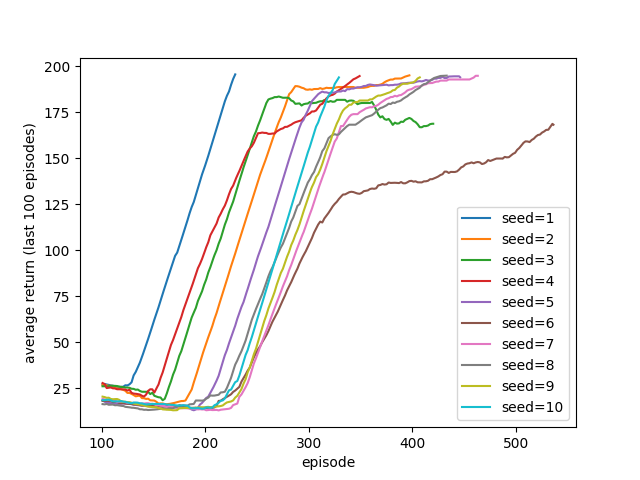
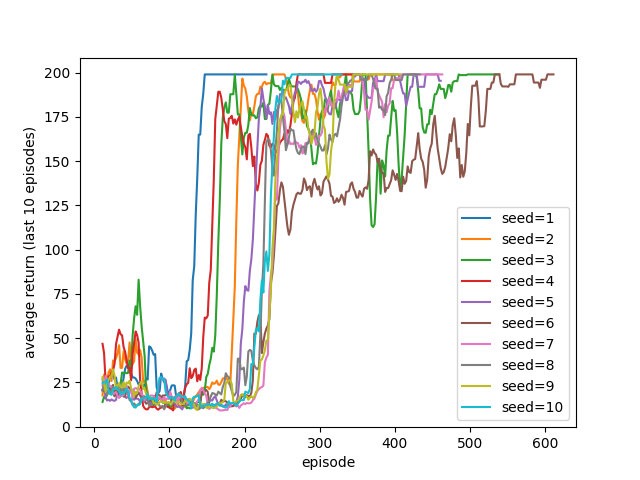
Add section about learning the Q-function and update results image (nearly done!)

diff --git a/_posts/2020-10-07-deep-q-learning-with-python.md b/_posts/2020-10-07-deep-q-learning-with-python.md
@@ -83,25 +83,41 @@ For more details about `gym` environments/installation the [official docs](https
 
 ### The optimal action-value function $Q^*$
 
-For a given envronment, the goal of RL is to choose a **policy**, that is, a function of the current state that selects the next action, that maximises the **expected return** of the agent that acts according to it.
+For a given envronment, the goal of RL is to choose a **policy**, that is, a function of the current state that selects the next action, that maximises the **expected return** of the agent that acts according to it. The policy could be represented by a probability distribution that is conditioned on a state $s_t$ at time $t$ that we then sample from. For DQN, and Q-learning more generally, policies are deterministic. That is, the action $a_t$ can be expressed as a function of the state $s_t$ at timestep $t$
 
-- Introduce formally what a return function is and what it is in the context of cart-pole
-- Discuss the action-value function mathematically
+$$ a_t = \mu(s_t) $$
 
-Suppose for a moment that we had access to the true function $Q^* $ for a given environment with a finite set of actions, how would we use it? For a given state $s$ we could enumerate all the possible actions $(a_1, a_2, ..., a_n)$, calculate $Q^* (s, a_i)$ and simply adopt a policy of choosing the action that maximises the expected return for the given state, setting $a = \max _a Q^* (s, a)$. The goal of **Q-learning** is to approximate the function $Q^*$ and adopt such a policy.
+Considering an episode of length $T$ timesteps, at each timestep $t$ we can define the **future discounted return**, which is a weighted sum of returns from the current timestep. If $\gamma$ is less than 1 then the contribution of future returns is discounted (one in the hand is worth $\gamma^{t'-t}$ in the bush).
+
+$$ R_t = \sum_{t'=t}^T{\gamma^{t'-t}r_t}, \text{where } \gamma \in [0, 1] $$
+
+For a given state $s$ we can then define the **optimal action-value function**.
+
+$$Q^*(s, a) = \max_\mu \mathrm{E}[R_t | s_t = s, a_t = a, \mu ]$$
+
+This gives us the expected future (discounted) return if perform action $a$ when in a given state $s$ and then act according to the optimal policy from then on util the end of the episode.
+
+Suppose for a moment that we had access to the true function $Q^* $ for a given environment with a finite set of actions, how would we use it? For a given state $s$ we could enumerate all the possible actions $(a_1, a_2, ..., a_n)$, calculate $Q^* (s, a_i)$ and simply adopt a policy of choosing the action that maximises the expected return for the given state, setting $a = \max _a Q^* (s, a)$. The goal of Q-learning is to approximate the function $Q^*$ and adopt such a policy.
 
 Note here that this depends on calculating Q for every action and therefore restricts this method to choosing actions for environments with discrete action spaces.
 
 ## Approximating the $Q^*$ function
 
-- Use a FFNN to approximate Q
-- What to learn
+In order to approximate $Q^* $ we'll be using a feedfoward neural network $$ Q \approx Q^* $$ with parameters $\theta$. The structure of this network and implementation details are discussed in detail below, but for now we'll treat it as a single-valued function of two variables, $s$ and $a$, with parameters $\theta$.
+
+In order to train the network we need (i) some targets and (ii) some kind of loss function. Rather that minimising a single loss function, however, we are going to minimise a sequence of loss functions where $i$ refers to the $i$th training step and $t$ is some timestep. Assume for a moment that we have access to a set of 'experiences' $\mathcal{D} = \lbrace e_1, e_2, ..., e_n\rbrace$, where each element $e_i$ is a tuple of the form $e_i = (s_t, a_t, r_t, s_{t+1})$. Here, $s_t$ is a state at timestep $t$, $a_t$ is the action that was performed, $r_t$ is the observed reward and $s_{t+1}$ is the next state return by the environment. The loss functions then take the form
+
+$$ L_i(\theta_i) = \mathrm{E}[y_i - Q(s_t, a_t; \theta_i)] $$
+
+Where
+
+$$y_i = E[r_t + \gamma \max_{a'} Q(s_{t+1}, a'; \theta^-)]$$
+
+Here $\theta^-$ refers to the fixed parameters of $Q$ at training step $i$. This can be thought of as a separate network whose parameters are not updated as part of the optimisation step. It turns out that it is possible to make the DQN procedure more stable by keeping theses 'target network' parameters fixed over a greater number of timesteps, which we'll explore in the next post. At each training step the expectation above is approximated using minibatches and the parameters $\theta_i$ are updated via stochastic gradient descent.
+
+Now here we're using some observation $s_t$, a reward $r_t$, an action $a_t$ and the following state $s_{t+1}$, but where are we drawing these from? A key idea that was introduced in the [original DQN paper from DeepMind](https://arxiv.org/pdf/1312.5602.pdf) is that of an **experience replay buffer**. The experiences will be accumulated as we train and stored in a fixed-length buffer that we will then randomly sample from to generate the minibatches. More details are provided below, but essentially there will be a period of exploration where random actions are chosen and then a period where we become increasingly dependent on our learned $Q$ network to pick actions. After a number of timesteps most of the actions in the buffer will be generated by performing actions that maximise the $Q$ network.
 
 > **NOTE**: It is worth mentioning that DQN can be adapted for environments with continuous action spaces, where it goes by the name [Deep Deterministic Policy Gradient (DDPG)](https://spinningup.openai.com/en/latest/algorithms/ddpg.html). The principal modification here is the introduction of a function that chooses an action that maximises Q which is learned as part of the training process.
-
-- Mention briefly that the algorithm can be modified to handle continuous action spaces (DDQN: https://spinningup.openai.com/en/latest/algorithms/ddpg.html)
-
-- Focus will be on environments with discrete action spaces since we have to search for the best action
 
 ### The complete algorithm
 
@@ -109,7 +125,7 @@ Our implementation will closely follow the DQN algorithm as described in Vlad Mn
 
 ![Playing Atari with Deep Reinforcement Learning, Vlad Mnih, Koray Kavukcuoglu, et al. NIPS 2013](/assets/dqn-1/mnih-algo-2013.png)
 
-Note that the implementation described here will deviate from this in a few minor details. Firstly, rather than iterating over a fixed number of episodes and timesteps for each episode, we'll simply iterate over a fixed number of timesteps. We'll update the weights of our $Q$ network after every timestep, after an initial exploration period specified by `learning_starts`. The `dqn` function will exit when the environment is 'solved' (when we have reached an average return of > 195 over 100 consecutive episodes) or we reach the specified number of timesteps.
+Note that the implementation described here will deviate from this in a few minor details. Firstly, rather than iterating over a fixed number of episodes and timesteps for each episode, we'll simply iterate over a fixed number of timesteps. We'll update the weights of our $Q$ network after every timestep, after an initial exploration period specified by `learning_starts`. The `dqn` function will exit when the environment when we have reached an average return of > 195 over 100 consecutive episodes or we reach the specified number of timesteps.
 
 Secondly, the authors of the paper perform some preprocessing over a sequence of images to form a fixed-size representation of their environment's states using some function $\phi_t = \phi(s_t)$. We will use the states $s_t$ from the cart-pole environment as-is for now (we can ignore the setting of $s_t = s_t, a_t, x_\{t+1}$ too; these details will be addressed in the next post).
 
@@ -359,11 +375,11 @@ def ffnn(sizes, activation=nn.Tanh, output_activaton=nn.Identity):
 
 The neural network that we use in the DQN implementation is instantiated by `q_net = ffnn([obs_size] + hidden + [n_acts])`. Where `obs_size` is 4 (the size of the observation vector returned from the environment when `env.step` is called), `hidden` is the list `[64, 64]`, and `n_acts` is 2 (corresponding to the left `0` and right `1` actions that the environment uses). This defines a function
 
-$$ Q_\theta : \mathbb{R}^4 \to \mathbb{R}^2 $$
+$$ Q : \mathbb{R}^4 \to \mathbb{R}^2 $$
 
-where $\theta$ is a vector whose components are our network's parameters. We can decompose this function into it's constituent parts (functions) that make it into a neural network. The following shows the chain of transformations that our input vector is going to go through as it's minced into its final state.
+We can decompose this function into it's constituent parts (functions) that make it into a neural network. The following shows the chain of transformations that our input vector is going to go through as it's minced into its final state.
 
-$$ Q_\theta : \mathbb{R}^4 \to \mathbb{R}^{64} \to \mathbb{R}^{64} \to \mathbb{R}^2 $$
+$$ Q : \mathbb{R}^4 \to \mathbb{R}^{64} \to \mathbb{R}^{64} \to \mathbb{R}^2 $$
 
 More explictly in terms of the operations being performed, if we have three linear functions $L_1 : \mathbb{R}^{4} \to \mathbb{R}^{64}$, $L_2 : \mathbb{R}^{64} \to \mathbb{R}^{64}$ and $L_3 : \mathbb{R}^{64} \to \mathbb{R}^{2}$. We can break the computation down to the following steps for a given input $x$, where we have
 
@@ -395,7 +411,7 @@ The first matrix (2-D tensor) takes an input of size 4 and returns an output of 
 
 ### Why does our Q-network have two outputs?
 
-In the code above we've used a neural network $Q_{\theta}(s) \mapsto (q_1, q_2)$ where $s$ is the current state of the environment and $(q_1, q_2)$ are the predicted action-values for the actions $0$ and $1$ respectively. For a more literal implementation of the above algorithm we could have instead made $Q_{\theta}$ a function of both the action and the state mapping to the estimated value for the pair, giving us an approximator of $Q$ in the familar form $Q_{\theta}(s, a) \mapsto q$.
+In the code above we've used a neural network $Q(s; \theta) \mapsto (q_1, q_2)$ where $s$ is the current state of the environment and $(q_1, q_2)$ are the predicted action-values for the actions $0$ and $1$ respectively. For a more literal implementation of the above algorithm we could have instead made $Q$ a function of both the action and the state mapping to the estimated value for the pair, giving us an approximator of $Q^* $ in the familar form $Q(s, a; \theta) \mapsto q$.
 
 The primary advantage, as far as I'm aware, of the given implementation is that in enables us to write a slightly more efficient (and cleaner-looking) function for choosing the best action for a given state. In order to find the best action we can simply retrieve the index of the highest output using a single forward pass. The alternative would require us to perform two passes to work out which action is best. In addition to this we would have to work a little bit more to construct the inputs by concatenating a one-hot representation of the action with the state before passing it in to the function.
 
@@ -702,13 +718,18 @@ tensor([0, 0, 0, 0, 0, 1, ... # len 32
 tensor([-0.0236, -0.1013, -0.0256, -0.0280, -0.0623, -0.1797, ...
 ```
 
-**TODO**
+Now that we have computed the loss, we can use backprop to calculate the gradients and update the parameters using the optimiser.
+
+```python
+loss.backward()
+optimiser.step()
+```
 
 ### Results
 
 **TODO** Create gifs demonstrating progress (might be a good candidate for a PR to gym?)
 
-The results of running the `dqn` function over 10 random seeds are shown below.
+The results of running the `dqn` function over 10 random seeds are shown below. All runs demonstrate a period of sustained policy improvement, however there are several iterations that level out or experience a decline in performance as the number of episodes increases.
 
 ![DQN (10 random seeds)](/assets/dqn-1/basic-dqn-10-seed.png)
 
